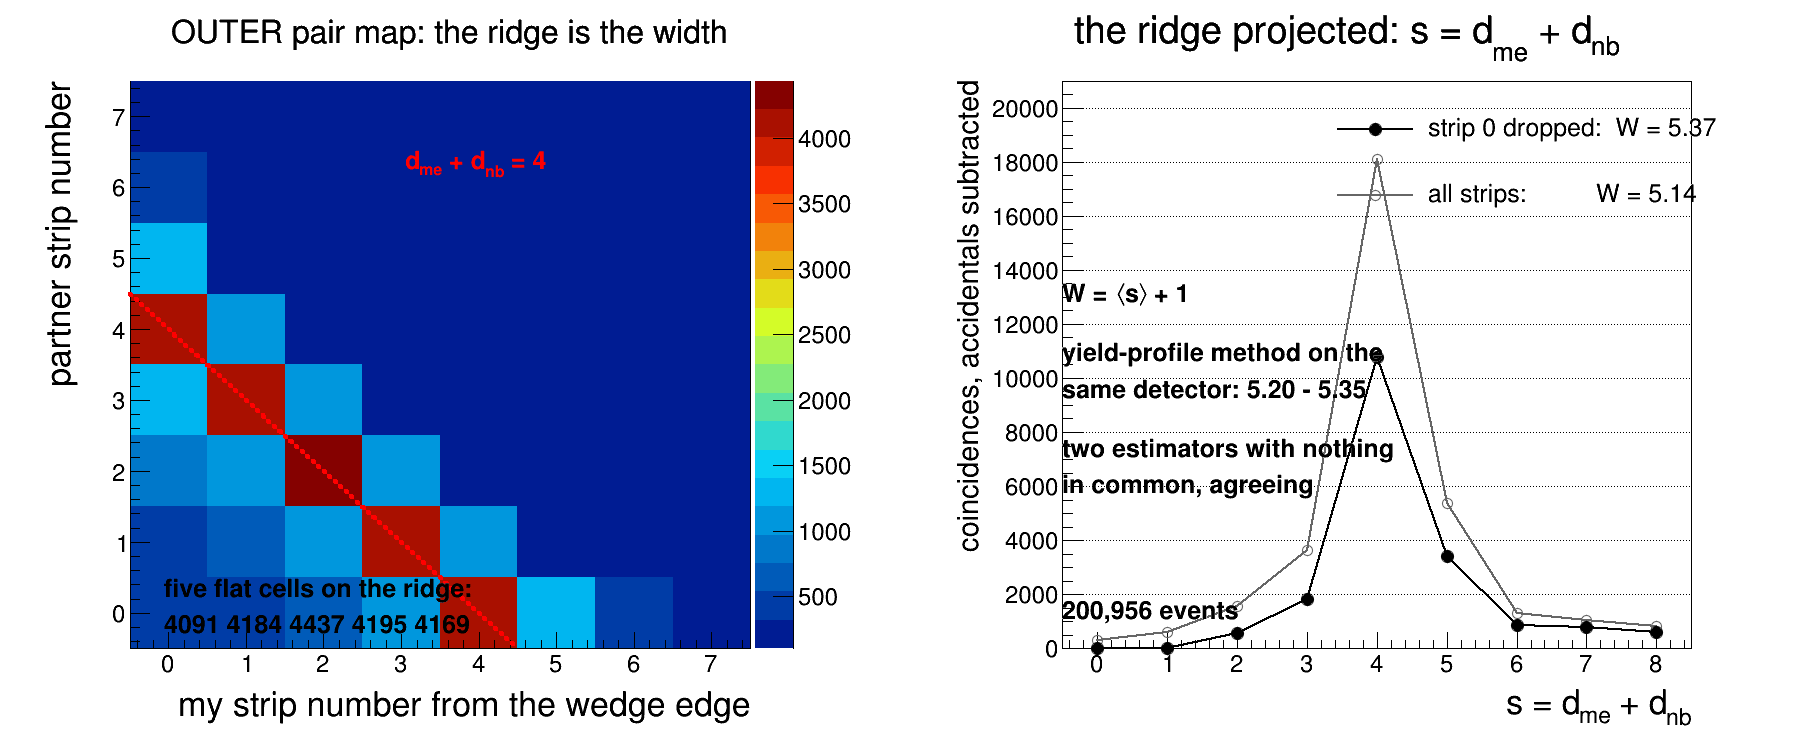
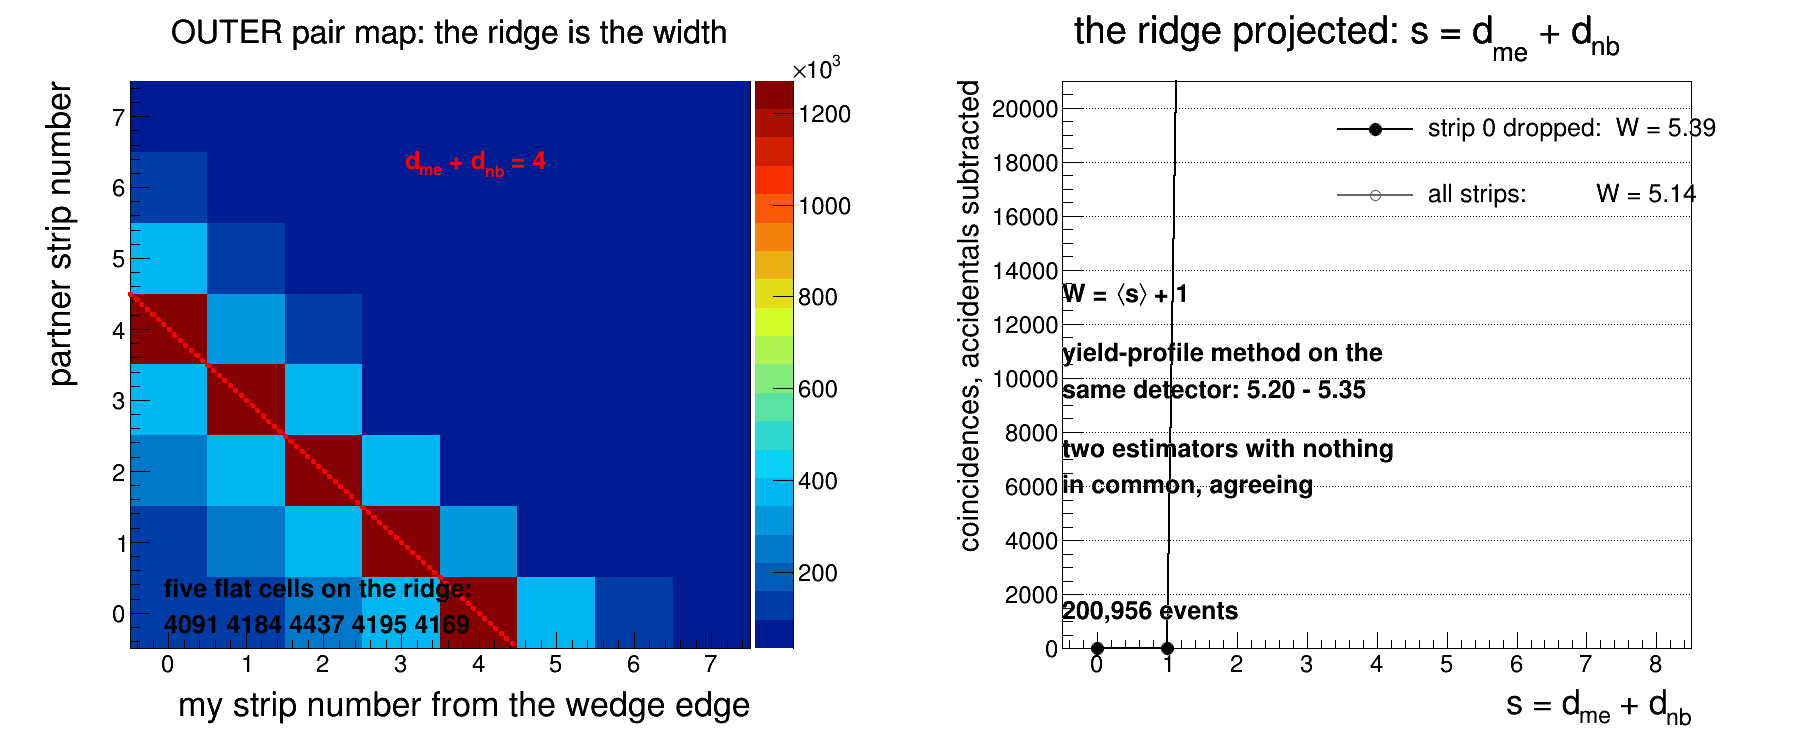
FST overlap: the full campaign, and the 1/r model is now rejected outright
48/48 jobs, 60.4M events, merged. Two things come out of the statistics.

W is unchanged by 300x the sample: 5.144 all d, 5.383 dropping the edge
strip, against 5.14 / 5.37 on 200k. Statistics was never the limit on the
width, so nothing about the central value needs revisiting.

W(r) is now measured per rStrip -- 5.447, 5.413, 5.320, 5.244 over
r = 17.9 to 26.6 cm -- and that is what the campaign was for. The width
really does fall with radius: a constant is excluded at chi2 = 25497 / 3.
But A + B/r is excluded too, at chi2/ndf = 1379 with residuals to 40 sigma
and the curvature the wrong way round. At 200k this read chi2/ndf = 9.2 and
could be called a poor fit; at 60M it is a rejected model.

So d = -0.80 mm is a parameter of a model the data rejects, not a
measurement, and the plot and the printout now say exactly that instead of
quoting an error-scaled significance. Scaling errors by sqrt(chi2/ndf)
assumes the model is right and only the errors are too small; here the
model is the thing being rejected, so the inflated error still describes
the wrong curve.

Two captions were written in by hand and had gone stale against the sample
beside them (4.407 -> 4.229, "20 files"). Both are computed now, and the
sample label is an argument, because hadd keeps no record of how many files
went into a merge.

fwoClusterEdge.C is new: the edge-truncation test the campaign was also
meant to settle. It comes back against the hypothesis -- the edge strip
[…]

diff --git a/script/fwoPairRdep.C b/script/fwoPairRdep.C
@@ -25,7 +25,11 @@ const int kN = 12;
 const int kBkgFrom = 14;
 const int kSMax = 8;
 
-void fwoPairRdep(const char *fn = "fwo_pairR.root")
+// sampleLabel: what the points are, for the legend. It cannot be derived from
+// the merged histograms -- hadd keeps no record of how many files went in --
+// so it is passed, and it must be updated with the sample.
+void fwoPairRdep(const char *fn = "fwo_pairR.root",
+                 const char *sampleLabel = "60.4M events, 48 files")
 {
     gStyle->SetOptStat(0);
     TFile *f = TFile::Open(fn);
@@ -135,8 +139,16 @@ void fwoPairRdep(const char *fn = "fwo_pairR.root")
     for (int i = 0; i < 3; i++) printf(" %+.3f", (A + B/r[i+1]) - (A + B/r[i]));
     printf("\n     A+B/r is CONVEX, the data is flat then accelerating -- opposite\n");
     printf("     curvature, so the model is dragged through points not on it.\n");
-    printf("\n     errors scaled to chi2/ndf = 1 (x%.1f):  d = %+.2f +- %.2f mm, %.1f sigma\n",
-           scale, dsh * 10, eD * 10 * scale, fabs(dsh / (eD * scale)));
+    // Scaling the errors by sqrt(chi2/ndf) is the standard recipe for a fit
+    // that is merely NOISY. It is not valid here: the residual pattern is
+    // systematic, not scatter, so the inflated error still describes the wrong
+    // model and the "sigma" it implies is meaningless. Print the number so the
+    // size is on record, and say in the same breath not to quote it.
+    printf("\n     errors scaled by sqrt(chi2/ndf) = %.1f:  d = %+.2f +- %.2f mm\n",
+           scale, dsh * 10, eD * 10 * scale);
+    printf("     DO NOT quote a significance from this. Error scaling assumes the\n");
+    printf("     model is right and only the errors are small; here the model is\n");
+    printf("     the thing the data rejects.\n");
     printf("     yield-profile method gave  30.139 deg,  -0.68 mm\n");
 
     // ---- the plot --------------------------------------------------------
@@ -178,7 +190,11 @@ void fwoPairRdep(const char *fn = "fwo_pairR.root")
         TLatex tr; tr.SetNDC(); tr.SetTextSize(0.033);
         tr.DrawLatex(0.17, 0.30, "dashed: the centroid of each");
         tr.DrawLatex(0.17, 0.255, "they walk left as r grows:");
-        tr.DrawLatex(0.17, 0.21, "4.407 #rightarrow 4.229, a 0.18 strip shift");
+        // computed, not written in: these numbers move with the sample and a
+        // stale caption that disagrees with the legend beside it is worse
+        // than no caption at all.
+        tr.DrawLatex(0.17, 0.21, Form("%.3f #rightarrow %.3f, a %.2f strip shift",
+                                      sMean[0], sMean[3], sMean[0] - sMean[3]));
         tr.DrawLatex(0.17, 0.155, "pure pitch would put all four together");
     }
     cvRd->cd(2);
@@ -208,9 +224,9 @@ void fwoPairRdep(const char *fn = "fwo_pairR.root")
     TGraphErrors *g = new TGraphErrors(4, r, W, er, eW);
     g->SetMarkerStyle(20); g->SetMarkerSize(1.6); g->SetLineWidth(2); g->Draw("P same");
 
-    TLegend *l = new TLegend(0.50, 0.73, 0.97, 0.93);
+    TLegend *l = new TLegend(0.40, 0.73, 0.97, 0.93);
     l->SetFillStyle(0); l->SetBorderSize(0); l->SetTextSize(0.034);
-    l->AddEntry(g,  "pair centroid, 20 files", "pe");
+    l->AddEntry(g,  Form("pair centroid, %s", sampleLabel), "pe");
     l->AddEntry(fp, "pure pitch: flat in r", "l");
     l->AddEntry(fs, "pure radial shift: 1/r", "l");
     l->AddEntry(ff, "free fit: A + B/r", "l");
@@ -219,12 +235,18 @@ void fwoPairRdep(const char *fn = "fwo_pairR.root")
     // The text goes in the band opened up below the curves, not over them:
     // the pure-shift curve runs diagonally through the middle of the frame and
     // was being hidden by this block.
-    TLatex t; t.SetNDC(); t.SetTextSize(0.032);
-    t.DrawLatex(0.17, 0.260, Form("free fit:  d = %+.2f #pm %.2f mm,  #chi^{2}/ndf = %.1f",
-                                  dsh*10, eD*10*scale, c2/2.0));
-    t.DrawLatex(0.17, 0.215, "ridge position only -- no plateau, no background convention");
-    t.DrawLatex(0.17, 0.170, Form("#chi^{2}/ndf = %.1f: the 1/r form does NOT fit, see the page", c2/2.0));
-    t.DrawLatex(0.17, 0.125, "yield-profile method: 30.139#circ, -0.68 mm");
+    // Lead with what the data says, not with the fit parameter. At 60M events
+    // BOTH models are excluded: flat in r by a mile, and A + B/r by chi2/ndf
+    // ~ 1379 with the wrong curvature. So d is a parameter of a rejected
+    // model, and printing it first invites it to be quoted as a measurement.
+    TLatex t; t.SetNDC(); t.SetTextSize(0.029);
+    t.DrawLatex(0.16, 0.260, Form("W falls %.3f #rightarrow %.3f from r = %.1f to %.1f cm",
+                                  W[0], W[3], r[0], r[3]));
+    t.DrawLatex(0.16, 0.215, Form("A + B/r rejected too: #chi^{2}/ndf = %.0f, curvature opposite",
+                                  c2/2.0));
+    t.DrawLatex(0.16, 0.170, Form("d = %+.2f mm: parameter of a rejected model, not a result",
+                                  dsh*10));
+    t.DrawLatex(0.16, 0.125, "yield-profile method: 30.139#circ, -0.68 mm");
 
     // redraw the curves last so nothing can sit on top of them
     fp->Draw("same"); fs->Draw("same"); ff->Draw("same"); g->Draw("P same");

diff --git a/script/fwoClusterEdge.C b/script/fwoClusterEdge.C
@@ -1,0 +1,98 @@
+// fwoClusterEdge.C -- cluster shape against distance from the wedge edge.
+//
+// WHY THIS EXISTS
+//   The per-strip occupancy says the edge strip (d = 0) carries MORE hits than
+//   the bulk -- outer +12%, inner +4% -- while its coincidence fraction with
+//   the overlapping neighbour is only about half the plateau. The proposed
+//   explanation was edge-truncated clusters: a track just outside the silicon
+//   deposits on the last strip only, so it is reconstructed at d = 0 with no
+//   partner possible. That picture makes a sharp prediction -- those clusters
+//   should be BOTH narrower and lower in charge than bulk ones -- and
+//   fstWedgeOverlap.C fills hClPhi/hClQ (outer) and hClPhiI/hClQI (inner) to
+//   test it. Run this on the hadd-ed campaign output.
+//
+//   The answer on 60.4M events (fwo_20261110b) was neither of the two outcomes
+//   that were anticipated:
+//     * d = 0 carries the SAME charge as the bulk (ratio 0.999), so the
+//       truncation picture is wrong -- a truncated cluster must lose charge.
+//     * d = 0 is nonetheless 3% narrower, and that is pure geometry: a cluster
+//       centred on the last strip cannot extend outward, so n >= 4 at d = 0 is
+//       0.0001 against 0.003 in the bulk. Clipping of the SIZE without loss of
+//       charge is what a one-sided window does.
+//     * the surprise is at d = 1, 2, 3: a 20-80x excess of wide (n >= 5)
+//       clusters -- 1.5%, 6.1%, 3.9% over a 0.08% bulk -- with the charge
+//       excess to match (+9%, +21%, +18%). It is confined to three strips just
+//       inside the wedge edge and is gone by d = 5. That is inside the overlap
+//       region the width measurement uses, so it has to be understood before
+//       the width is final.
+//
+// Usage:
+//   root4star -l -b -q 'script/fwoClusterEdge.C("<hadd-ed fwo file>")'
+
+void fwoClusterEdgeOne(TFile *f, const char *hname, const char *what)
+{
+   TH2F *h = (TH2F*)f->Get(hname);
+   if (!h) { printf("  %s MISSING\n", hname); return; }
+   printf("\n%s  --  %s\n", hname, what);
+   printf("   d    entries      mean       rms   mean/bulk\n");
+
+   // bulk = d 6..11, far enough from the edge that neither the clipping nor
+   // the wide-cluster excess reaches it.
+   double bulk = 0; int nb = 0;
+   for (int d = 6; d <= 11; d++) {
+      int ix = h->GetXaxis()->FindBin((double)d);
+      TH1D *pb = h->ProjectionY("fwoCEpb", ix, ix);
+      if (pb->GetEntries() > 0) { bulk += pb->GetMean(); nb++; }
+      delete pb;
+   }
+   if (nb) bulk /= nb;
+
+   for (int d = 0; d <= 11; d++) {
+      int ix = h->GetXaxis()->FindBin((double)d);
+      TH1D *p1 = h->ProjectionY("fwoCEp1", ix, ix);
+      if (p1->GetEntries() < 1) { delete p1; continue; }
+      printf("  %2d %10.0f %9.3f %9.3f %9.4f\n",
+             d, p1->GetEntries(), p1->GetMean(), p1->GetRMS(),
+             bulk > 0 ? p1->GetMean()/bulk : 0.0);
+      delete p1;
+   }
+   printf("   bulk (d = 6..11) mean = %.3f\n", bulk);
+}
+
+void fwoClusterEdgeSpec(TFile *f, const char *hname, const char *what)
+{
+   TH2F *h = (TH2F*)f->Get(hname);
+   if (!h) { printf("  %s MISSING\n", hname); return; }
+   printf("\n%s size spectrum  --  %s  (fraction of that d's clusters)\n", hname, what);
+   printf("   d      n=1     n=2     n=3     n=4    n>=5\n");
+   for (int d = 0; d <= 11; d++) {
+      int ix = h->GetXaxis()->FindBin((double)d);
+      TH1D *ps = h->ProjectionY("fwoCEps", ix, ix);
+      double tot = ps->Integral(1, 8);
+      if (tot <= 0) { delete ps; continue; }
+      printf("  %2d  %7.4f %7.4f %7.4f %7.4f %7.4f\n", d,
+             ps->GetBinContent(1)/tot, ps->GetBinContent(2)/tot,
+             ps->GetBinContent(3)/tot, ps->GetBinContent(4)/tot,
+             ps->Integral(5, 8)/tot);
+      delete ps;
+   }
+}
+
+void fwoClusterEdge(const char *fn = "fwo_pairR.root")
+{
+   TFile *f = TFile::Open(fn);
+   if (!f || f->IsZombie()) { printf("cannot open %s\n", fn); return; }
+
+   printf("CLUSTER SHAPE vs DISTANCE FROM THE WEDGE EDGE\n");
+   printf("The truncation hypothesis predicts d = 0 clusters are both narrower\n");
+   printf("AND lower in charge. Read the charge ratio first: it is the half\n");
+   printf("that cannot be faked by the one-sided window at the last strip.\n");
+
+   fwoClusterEdgeOne(f, "hClPhi",  "OUTER cluster phi size");
+   fwoClusterEdgeOne(f, "hClQ",    "OUTER cluster charge");
+   fwoClusterEdgeOne(f, "hClPhiI", "INNER cluster phi size");
+   fwoClusterEdgeOne(f, "hClQI",   "INNER cluster charge");
+
+   fwoClusterEdgeSpec(f, "hClPhi",  "OUTER");
+   fwoClusterEdgeSpec(f, "hClPhiI", "INNER");
+}
